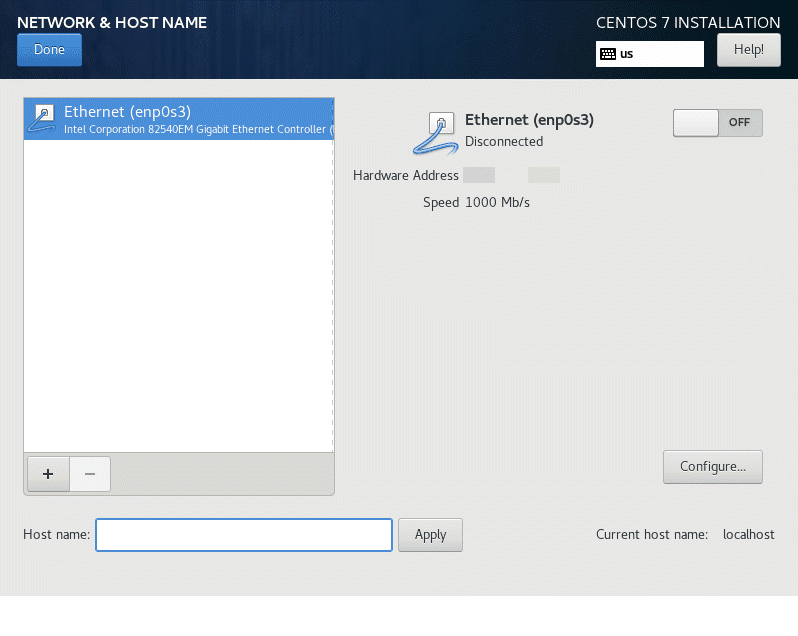
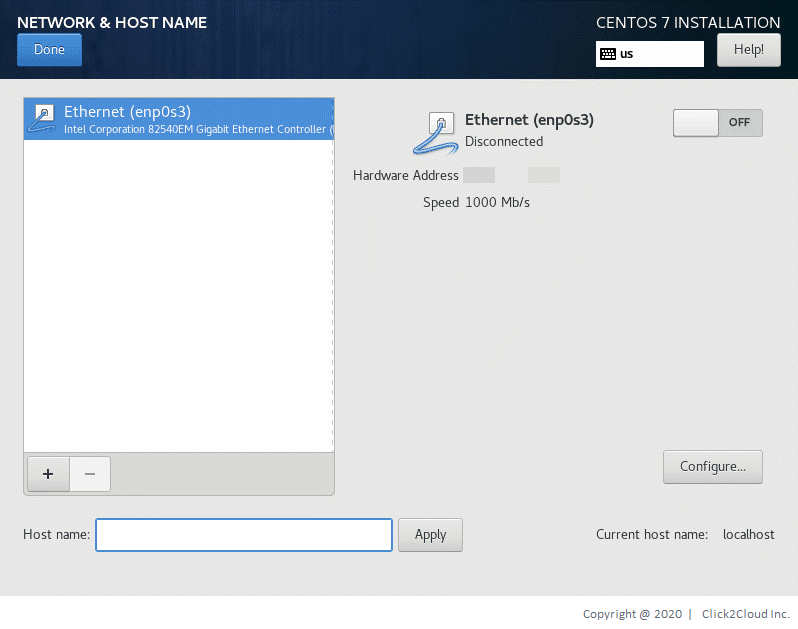
updated copyright on centos images

diff --git a/prerequisites/os/centos-template-creation.md b/prerequisites/os/centos-template-creation.md
@@ -188,25 +188,25 @@
     1. Click **VMs and Templates** in the VMware Host Client inventory. 
     
     <p><kbd>
-        <img src="../../../images/prerequisites/vsphere-client-inventory-vm.png">
+        <img src="../../images/prerequisites/vsphere-client-inventory-vm.png">
     </kbd></p>
      
     2. Right click on the VM created in Step 4 and select **Clone > Clone to Template**.
     
     <p><kbd>
-        <img src="../../../images/prerequisites/template1.PNG">
+        <img src="../../images/prerequisites/template1.PNG">
     </kbd></p>
     
     3. On the Select a name and folder page, enter a name for the template and select a data center or a folder in which to deploy it.
     
     <p><kbd>
-        <img src="../../../images/prerequisites/template2.PNG">
+        <img src="../../images/prerequisites/template2.PNG">
     </kbd></p>
     
     4. On the Select a compute resource, select a host or a cluster resource for the template.
     
     <p><kbd>
-        <img src="../../../images/prerequisites/template3.PNG">
+        <img src="../../images/prerequisites/template3.PNG">
     </kbd></p>
     
     5. On the Select storage page, select the datastore or datastore cluster in which to store the virtual machine configuration files and all of the virtual disks. Click Next.
@@ -214,7 +214,7 @@
     6. On the Ready to complete page, review the template settings and click **Finish**.  
     
      <p><kbd>
-        <img src="../../../images/prerequisites/template4.PNG">
+        <img src="../../images/prerequisites/template4.PNG">
     </kbd></p>
     
     The progress of the clone task appears in the Recent Tasks pane. When the task completes, the template appears in the inventory.
